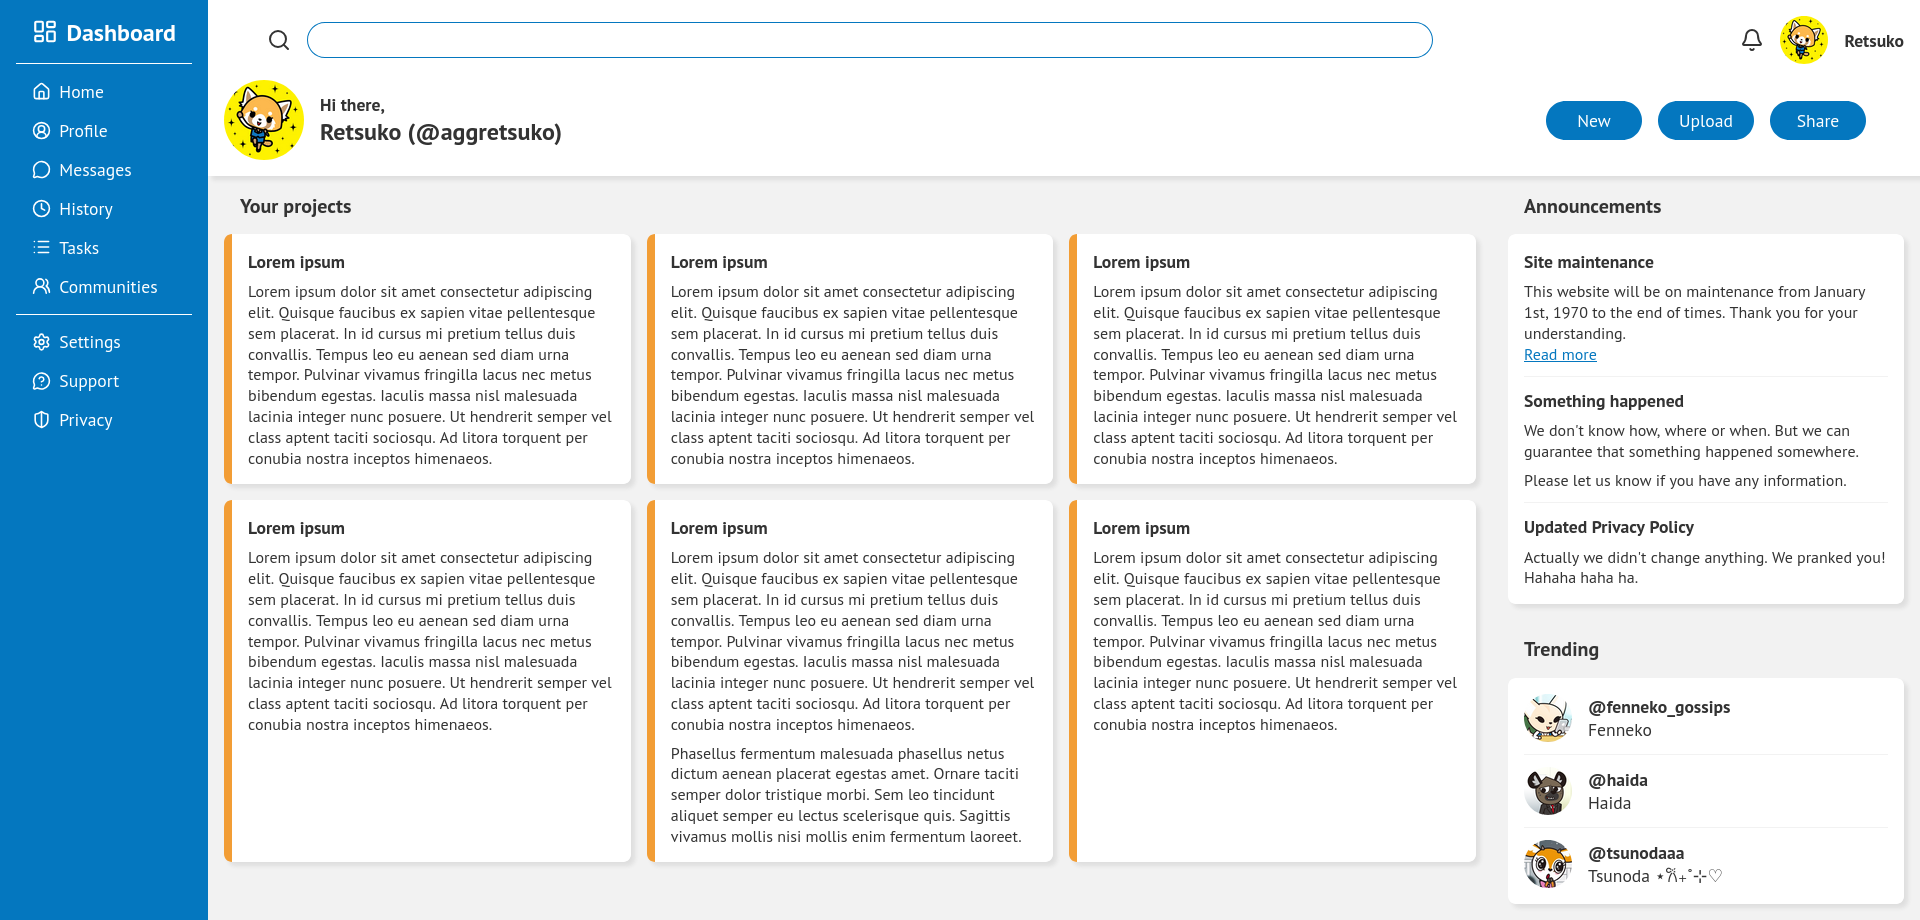
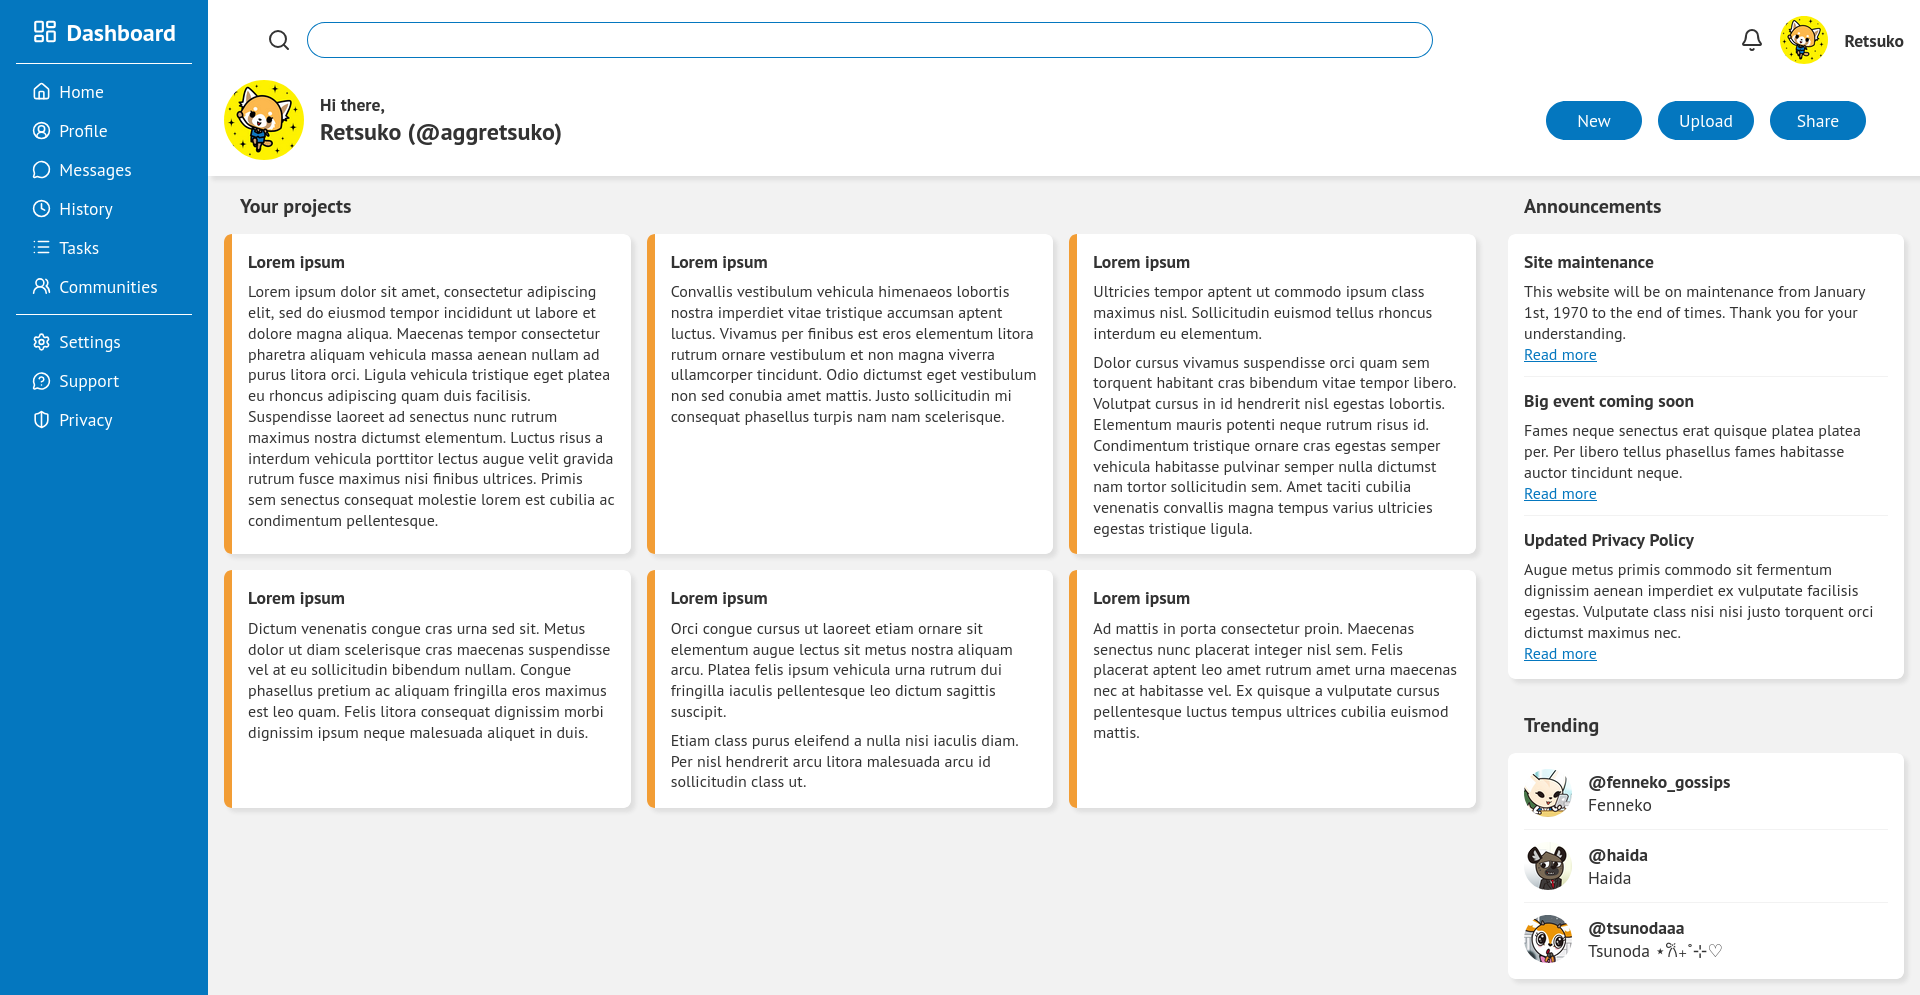
more diverse dummy text

diff --git a/source/index.html b/source/index.html
@@ -80,41 +80,43 @@
         <article class="card">
           <h2>Lorem ipsum</h2>
           <p>
-            Lorem ipsum dolor sit amet consectetur adipiscing elit. Quisque faucibus ex sapien vitae pellentesque sem placerat. In id cursus mi pretium tellus duis convallis. Tempus leo eu aenean sed diam urna tempor. Pulvinar vivamus fringilla lacus nec metus bibendum egestas. Iaculis massa nisl malesuada lacinia integer nunc posuere. Ut hendrerit semper vel class aptent taciti sociosqu. Ad litora torquent per conubia nostra inceptos himenaeos.
+            Lorem ipsum dolor sit amet, consectetur adipiscing elit, sed do eiusmod tempor incididunt ut labore et dolore magna aliqua. Maecenas tempor consectetur pharetra aliquam vehicula massa aenean nullam ad purus litora orci. Ligula vehicula tristique eget platea eu rhoncus adipiscing quam duis facilisis. Suspendisse laoreet ad senectus nunc rutrum maximus nostra dictumst elementum. Luctus risus a interdum vehicula porttitor lectus augue velit gravida rutrum fusce maximus nisi finibus ultrices. Primis sem senectus consequat molestie lorem est cubilia ac condimentum pellentesque.
           </p>
         </article>
         <article class="card">
           <h2>Lorem ipsum</h2>
           <p>
-            Lorem ipsum dolor sit amet consectetur adipiscing elit. Quisque faucibus ex sapien vitae pellentesque sem placerat. In id cursus mi pretium tellus duis convallis. Tempus leo eu aenean sed diam urna tempor. Pulvinar vivamus fringilla lacus nec metus bibendum egestas. Iaculis massa nisl malesuada lacinia integer nunc posuere. Ut hendrerit semper vel class aptent taciti sociosqu. Ad litora torquent per conubia nostra inceptos himenaeos.
+            Convallis vestibulum vehicula himenaeos lobortis nostra imperdiet vitae tristique accumsan aptent luctus. Vivamus per finibus est eros elementum litora rutrum ornare vestibulum et non magna viverra ullamcorper tincidunt. Odio dictumst eget vestibulum non sed conubia amet mattis. Justo sollicitudin mi consequat phasellus turpis nam nam scelerisque.
           </p>
         </article>
         <article class="card">
           <h2>Lorem ipsum</h2>
           <p>
-            Lorem ipsum dolor sit amet consectetur adipiscing elit. Quisque faucibus ex sapien vitae pellentesque sem placerat. In id cursus mi pretium tellus duis convallis. Tempus leo eu aenean sed diam urna tempor. Pulvinar vivamus fringilla lacus nec metus bibendum egestas. Iaculis massa nisl malesuada lacinia integer nunc posuere. Ut hendrerit semper vel class aptent taciti sociosqu. Ad litora torquent per conubia nostra inceptos himenaeos.
+            Ultricies tempor aptent ut commodo ipsum class maximus nisl. Sollicitudin euismod tellus rhoncus interdum eu elementum.
+          </p>
+          <p>
+            Dolor cursus vivamus suspendisse orci quam sem torquent habitant cras bibendum vitae tempor libero. Volutpat cursus in id hendrerit nisl egestas lobortis. Elementum mauris potenti neque rutrum risus id. Condimentum tristique ornare cras egestas semper vehicula habitasse pulvinar semper nulla dictumst nam tortor sollicitudin sem. Amet taciti cubilia venenatis convallis magna tempus varius ultricies egestas tristique ligula.
           </p>
         </article>
         <article class="card">
           <h2>Lorem ipsum</h2>
           <p>
-            Lorem ipsum dolor sit amet consectetur adipiscing elit. Quisque faucibus ex sapien vitae pellentesque sem placerat. In id cursus mi pretium tellus duis convallis. Tempus leo eu aenean sed diam urna tempor. Pulvinar vivamus fringilla lacus nec metus bibendum egestas. Iaculis massa nisl malesuada lacinia integer nunc posuere. Ut hendrerit semper vel class aptent taciti sociosqu. Ad litora torquent per conubia nostra inceptos himenaeos.
+            Dictum venenatis congue cras urna sed sit. Metus dolor ut diam scelerisque cras maecenas suspendisse vel at eu sollicitudin bibendum nullam. Congue phasellus pretium ac aliquam fringilla eros maximus est leo quam. Felis litora consequat dignissim morbi dignissim ipsum neque malesuada aliquet in duis.
           </p>
         </article>
         <article class="card">
           <h2>Lorem ipsum</h2>
           <p>
-            Lorem ipsum dolor sit amet consectetur adipiscing elit. Quisque faucibus ex sapien vitae pellentesque sem placerat. In id cursus mi pretium tellus duis convallis.
-            Tempus leo eu aenean sed diam urna tempor. Pulvinar vivamus fringilla lacus nec metus bibendum egestas. Iaculis massa nisl malesuada lacinia integer nunc posuere. Ut hendrerit semper vel class aptent taciti sociosqu. Ad litora torquent per conubia nostra inceptos himenaeos.
+            Orci congue cursus ut laoreet etiam ornare sit elementum augue lectus sit metus nostra aliquam arcu. Platea felis ipsum vehicula urna rutrum dui fringilla iaculis pellentesque leo dictum sagittis suscipit.
           </p>
           <p>
-            Phasellus fermentum malesuada phasellus netus dictum aenean placerat egestas amet. Ornare taciti semper dolor tristique morbi. Sem leo tincidunt aliquet semper eu lectus scelerisque quis. Sagittis vivamus mollis nisi mollis enim fermentum laoreet.
+            Etiam class purus eleifend a nulla nisi iaculis diam. Per nisl hendrerit arcu litora malesuada arcu id sollicitudin class ut.
           </p>
         </article>
         <article class="card">
           <h2>Lorem ipsum</h2>
           <p>
-            Lorem ipsum dolor sit amet consectetur adipiscing elit. Quisque faucibus ex sapien vitae pellentesque sem placerat. In id cursus mi pretium tellus duis convallis. Tempus leo eu aenean sed diam urna tempor. Pulvinar vivamus fringilla lacus nec metus bibendum egestas. Iaculis massa nisl malesuada lacinia integer nunc posuere. Ut hendrerit semper vel class aptent taciti sociosqu. Ad litora torquent per conubia nostra inceptos himenaeos.
+            Ad mattis in porta consectetur proin. Maecenas senectus nunc placerat integer nisl sem. Felis placerat aptent leo amet rutrum amet urna maecenas nec at habitasse vel. Ex quisque a vulputate cursus pellentesque luctus tempus ultrices cubilia euismod mattis.
           </p>
         </article>
       </div>
@@ -129,13 +131,14 @@
             <a href="https://www.youtube.com/watch?v=dQw4w9WgXcQ">Read more</a>
           </article>
           <article>
-            <h2>Something happened</h2>
-            <p>We don't know how, where or when. But we can guarantee that something happened somewhere.</p>
-            <p>Please let us know if you have any information.</p>
+            <h2>Big event coming soon</h2>
+            <p>Fames neque senectus erat quisque platea platea per. Per libero tellus phasellus fames habitasse auctor tincidunt neque.</p>
+            <a href="https://www.youtube.com/watch?v=dQw4w9WgXcQ">Read more</a>
           </article>
           <article>
             <h2>Updated Privacy Policy</h2>
-            <p>Actually we didn't change anything. We pranked you! Hahaha haha ha.</p>
+            <p>Augue metus primis commodo sit fermentum dignissim aenean imperdiet ex vulputate facilisis egestas. Vulputate class nisi nisi justo torquent orci dictumst maximus nec.</p>
+            <a href="https://www.youtube.com/watch?v=dQw4w9WgXcQ">Read more</a>
           </article>
         </div>
       </section>
